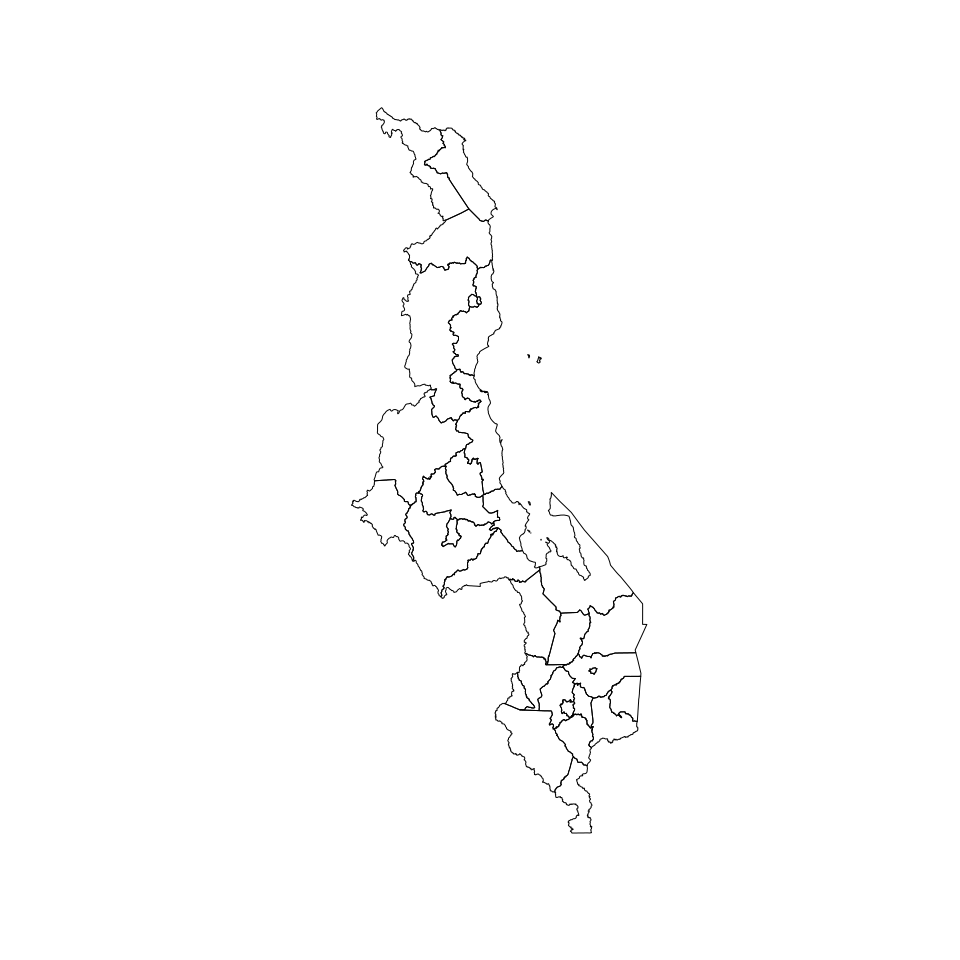
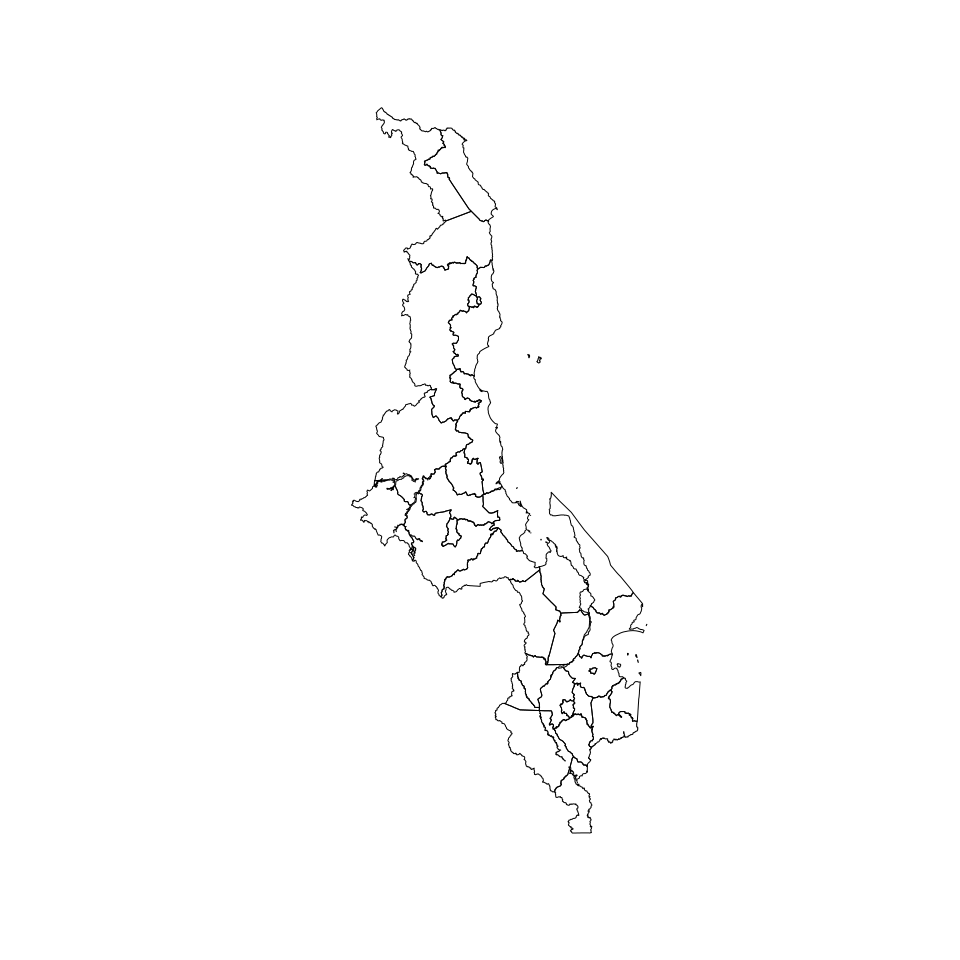
update README

diff --git a/README.md b/README.md
@@ -8,7 +8,9 @@
 [![Project Status: WIP – Initial development is in progress, but there
 has not yet been a stable, usable release suitable for the
 public.](https://www.repostatus.org/badges/latest/wip.svg)](https://www.repostatus.org/#wip)
-[![R-CMD-check](https://github.com/spatialworks/malawi/workflows/R-CMD-check/badge.svg)](https://github.com/spatialworks/malawi/actions)
+[![Lifecycle:
+experimental](https://img.shields.io/badge/lifecycle-experimental-orange.svg)](https://lifecycle.r-lib.org/articles/stages.html#experimental)
+[![R-CMD-check](https://github.com/spatialworks/malawi/actions/workflows/R-CMD-check.yaml/badge.svg)](https://github.com/spatialworks/malawi/actions/workflows/R-CMD-check.yaml)
 [![test-coverage](https://github.com/spatialworks/malawi/actions/workflows/test-coverage.yaml/badge.svg)](https://github.com/spatialworks/malawi/actions/workflows/test-coverage.yaml)
 [![CodeFactor](https://www.codefactor.io/repository/github/spatialworks/malawi/badge)](https://www.codefactor.io/repository/github/spatialworks/malawi)
 [![DOI](https://zenodo.org/badge/445699345.svg)](https://zenodo.org/badge/latestdoi/445699345)
@@ -36,56 +38,50 @@ remotes::install_github("spatialworks/malawi")
 
 ### Retrieve and plot Malawi country borders
 
-    #> Reading layer `mwi_admbnda_adm0_nso_20181016' from data source `/tmp/RtmpLL7JbU' using driver `ESRI Shapefile'
-    #> Simple feature collection with 1 feature and 10 fields
+    #> Reading layer `mwi_admbnda_adm0_nso_hotosm_20230405' from data source 
+    #>   `/tmp/RtmpdHLjP6' using driver `ESRI Shapefile'
+    #> Simple feature collection with 1 feature and 7 fields
     #> Geometry type: MULTIPOLYGON
     #> Dimension:     XY
-    #> Bounding box:  xmin: 32.67162 ymin: -17.12628 xmax: 35.91842 ymax: -9.363662
+    #> Bounding box:  xmin: 32.67164 ymin: -17.12975 xmax: 35.91848 ymax: -9.367346
     #> Geodetic CRS:  WGS 84
 
 <img src="man/figures/README-mwi1-1.png" width="100%" style="display: block; margin: auto;" />
 
 ### Retrieve and plot Malawi regions borders
 
-    #> Reading layer `mwi_admbnda_adm1_nso_20181016' from data source `/tmp/RtmpLL7JbU' using driver `ESRI Shapefile'
-    #> Simple feature collection with 3 features and 12 fields
+    #> Reading layer `mwi_admbnda_adm1_nso_hotosm_20230405' from data source 
+    #>   `/tmp/RtmpdHLjP6' using driver `ESRI Shapefile'
+    #> Simple feature collection with 3 features and 9 fields
     #> Geometry type: MULTIPOLYGON
     #> Dimension:     XY
-    #> Bounding box:  xmin: 32.67162 ymin: -17.12628 xmax: 35.91842 ymax: -9.363662
+    #> Bounding box:  xmin: 32.67164 ymin: -17.12975 xmax: 35.91848 ymax: -9.367346
     #> Geodetic CRS:  WGS 84
 
 <img src="man/figures/README-mwi2-1.png" width="100%" style="display: block; margin: auto;" />
 
 ### Retrieve and plot Malawi districts borders
 
-    #> Reading layer `mwi_admbnda_adm2_nso_20181016' from data source `/tmp/RtmpLL7JbU' using driver `ESRI Shapefile'
-    #> Simple feature collection with 32 features and 14 fields
+    #> Reading layer `mwi_admbnda_adm2_nso_hotosm_20230405' from data source 
+    #>   `/tmp/RtmpdHLjP6' using driver `ESRI Shapefile'
+    #> Simple feature collection with 32 features and 11 fields
     #> Geometry type: MULTIPOLYGON
     #> Dimension:     XY
-    #> Bounding box:  xmin: 32.67162 ymin: -17.12628 xmax: 35.91842 ymax: -9.363662
+    #> Bounding box:  xmin: 32.67164 ymin: -17.12975 xmax: 35.91848 ymax: -9.367346
     #> Geodetic CRS:  WGS 84
 
 <img src="man/figures/README-mwi3-1.png" width="100%" style="display: block; margin: auto;" />
 
 ### Retrieve and plot Malawi traditional authority areas borders
 
-    #> Reading layer `mwi_admbnda_adm3_nso_20181016' from data source `/tmp/RtmpLL7JbU' using driver `ESRI Shapefile'
-    #> Simple feature collection with 368 features and 16 fields
+    #> Reading layer `mwi_admbnda_adm3_nso_hotosm_20230405' from data source 
+    #>   `/tmp/RtmpdHLjP6' using driver `ESRI Shapefile'
+    #> Simple feature collection with 433 features and 14 fields
     #> Geometry type: MULTIPOLYGON
     #> Dimension:     XY
-    #> Bounding box:  xmin: 32.67162 ymin: -17.12628 xmax: 35.91842 ymax: -9.363662
+    #> Bounding box:  xmin: 32.67164 ymin: -17.12975 xmax: 35.91848 ymax: -9.367346
     #> Geodetic CRS:  WGS 84
 
 <img src="man/figures/README-mwi4-1.png" width="100%" style="display: block; margin: auto;" />
 
 ### Retrieve and plot Malawi livelihood zones
-
-    #> Reading layer `mwi_phy_predlhz_geonode_20140612' from data source 
-    #>   `/tmp/RtmpLL7JbU' using driver `ESRI Shapefile'
-    #> Simple feature collection with 28 features and 6 fields
-    #> Geometry type: MULTIPOLYGON
-    #> Dimension:     XY
-    #> Bounding box:  xmin: -17.125 ymin: 32.67395 xmax: -9.367541 ymax: 35.91682
-    #> Geodetic CRS:  WGS 84
-
-<img src="man/figures/README-mwi5-1.png" width="100%" style="display: block; margin: auto;" />
